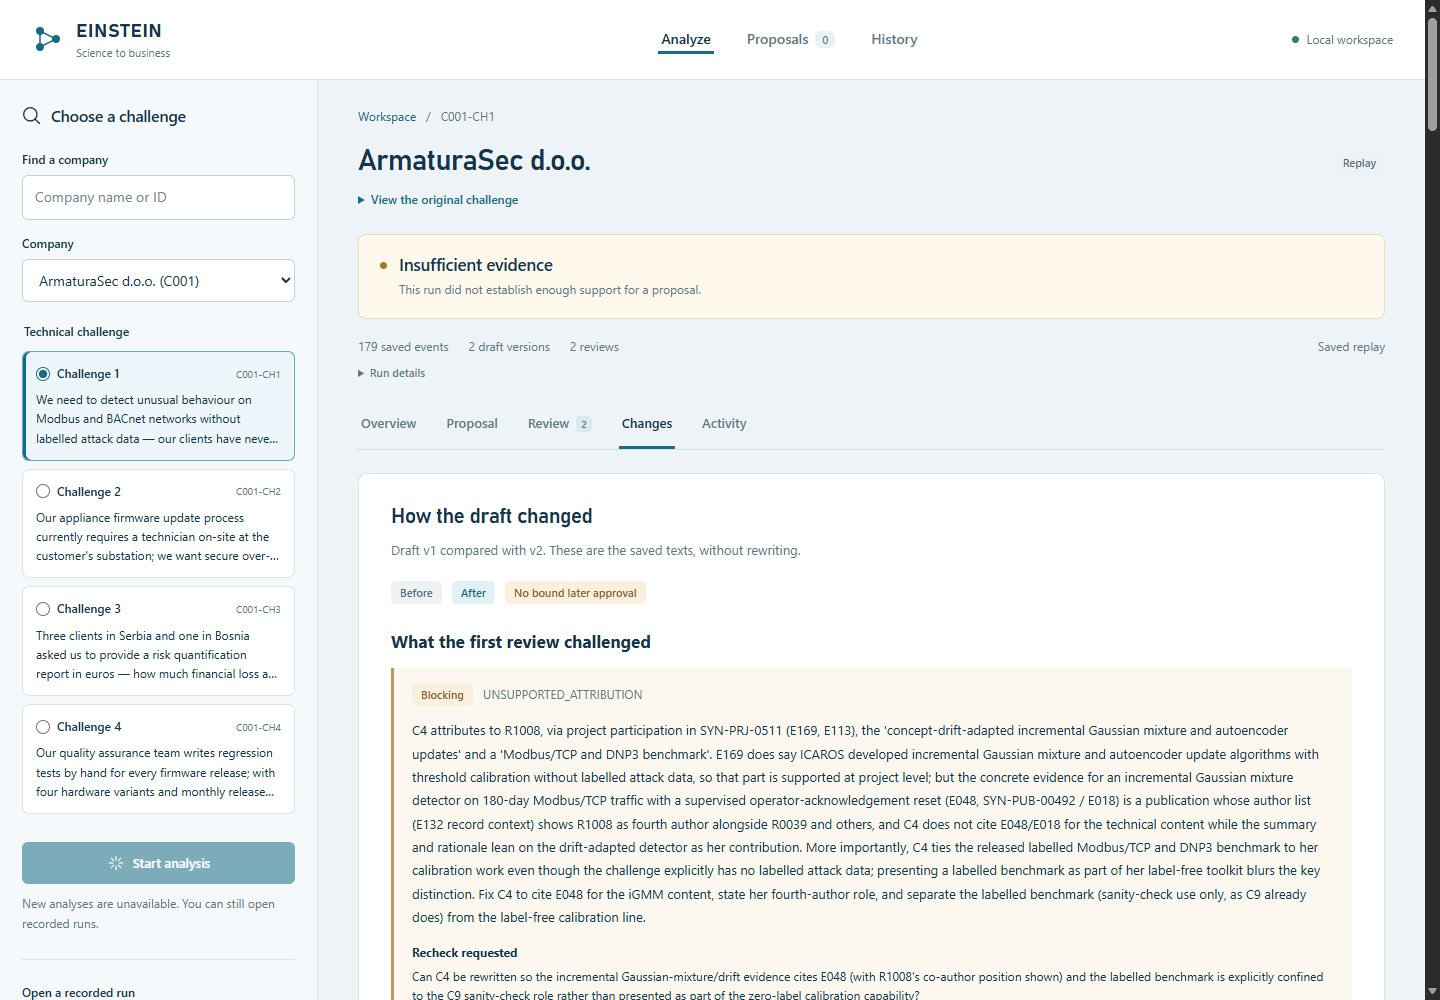
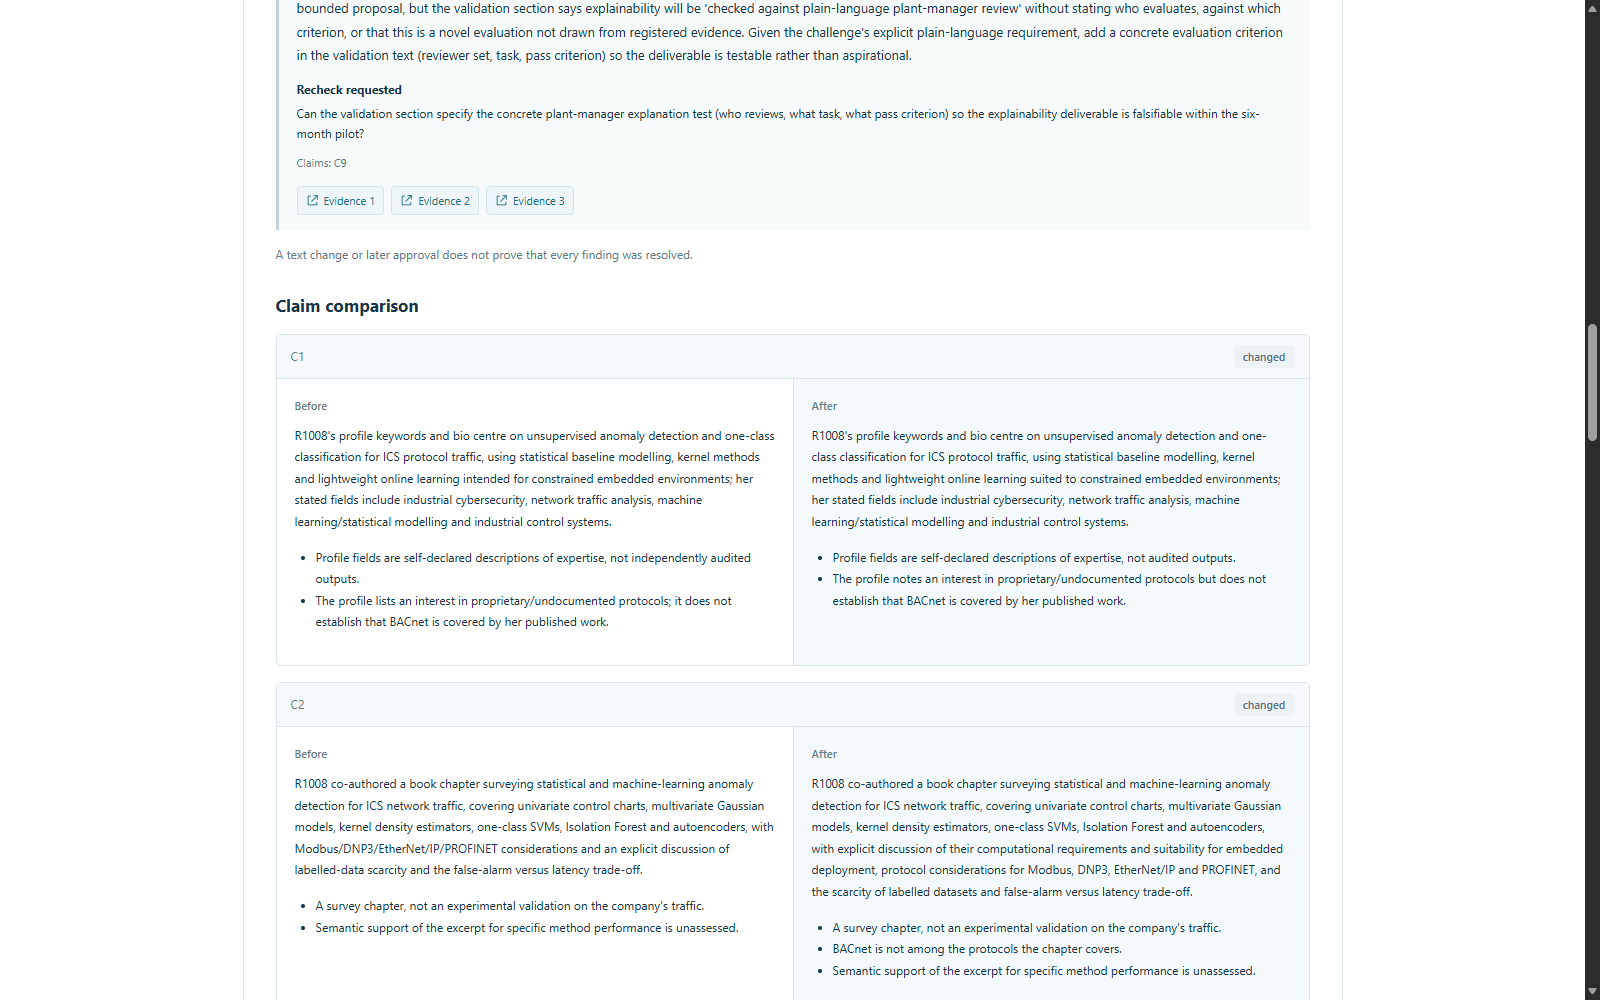
docs: refresh ProofBridge screenshots and explicit local API setup

diff --git a/README.md b/README.md
@@ -4,7 +4,18 @@ Turn a company challenge into a research partnership you can inspect: the source
 
 **[Open the interactive demo](https://luzxxxx.github.io/einstein-evidence-partnerships/)** · [Demo guide](https://luzxxxx.github.io/einstein-evidence-partnerships/guide.html) · [Architecture](docs/architecture.md) · [Three proposals](artifacts/showcase/final/index.html) · [Demo walkthrough](docs/demo-walkthrough.md)
 
-![Three reviewed partnerships](docs/images/proposals.png)
+![ProofBridge — find research partnerships and inspect the evidence](docs/images/home.png)
+
+<details>
+<summary>See the proposal, Critic revision and evidence inspector</summary>
+
+![A real approved partnership proposal](docs/images/proposal-overview.png)
+
+![Before and after a Critic-requested revision; this research Run ends with insufficient evidence](docs/images/critic-revision.png)
+
+![Original-source evidence inspector](docs/images/evidence-inspector.png)
+
+</details>
 
 The public demo replays real saved model runs. It needs no API key. New analysis runs locally with your own provider key; browser-based key entry is not yet implemented.
 
@@ -39,6 +50,16 @@ For a new analysis, stop the demo, copy `config/gateway.env.example` to `.env.lo
 ```powershell
 node --env-file-if-exists=.env.local dist/server/server/main.js
 ```
+
+The API configuration entry is the local server's `.env.local` file. Its format is:
+
+```dotenv
+EINSTEIN_GATEWAY_API_KEY=YOUR_OWN_API_KEY
+EINSTEIN_GATEWAY_BASE_URL=https://api.deepseek.com
+EINSTEIN_GATEWAY_MODEL=deepseek-flash
+```
+
+Use the model identifier enabled for your provider account. The example matches the saved live-run configuration; another identifier or provider needs compatibility verification. The GitHub Pages demo only reads saved results; it does not offer a browser API-key form or start new model requests.
 
 Keys remain local to the server. Never put a key in frontend source or commit `.env.local`. The tested live provider was DeepSeek with the OpenAI-compatible chat protocol. Other providers require compatibility verification. Model calls consume the configured account's quota.
 
@@ -81,6 +102,8 @@ The three formal saved runs contain real client-side request overlap of approxim
 A future network adapter would accept a consented company challenge and return the structured pair, proposed pilot, evidence references and review state. Human acceptance, pilot completion and verified collaboration outcomes could become network events. Stars could reward verified contributions or completed collaboration milestones under the network's rules. This prototype does **not** implement a network API or assign a person's worth, reputation or Stars score. Retrieval orders evidence-supported candidates for a challenge; it is not a ranking of human value.
 
 ## Verification and limits
+
+[Latest GitHub Pages and screenshot verification](docs/github-pages-verification.md) covers this public visual refresh.
 
 `pnpm test:offline` builds and runs the engineering suite without model requests. Windows process fixtures are explicitly labelled. The development suite recorded 1,322 passing tests; this public release adds portable historical fixtures and is verified separately in [release verification](docs/release-verification.md). High default test parallelism previously produced a native Node crash of unknown cause; bounded test-file concurrency is available in the verification instructions.
 

diff --git a/docs/github-pages-verification.md b/docs/github-pages-verification.md
@@ -1,0 +1,13 @@
+# GitHub Pages verification — 1 November 2026
+
+The public saved-results demo is https://luzxxxx.github.io/einstein-evidence-partnerships/ and its walkthrough is [guide.html](https://luzxxxx.github.io/einstein-evidence-partnerships/guide.html). It replays nine genuine archived Runs and three formal approved research pairs. It needs no API key and does not start a model request.
+
+The new UI passed 29 focused Web regressions, Web TypeScript checking and production build. A complete anonymous public-HTTP check matched 545 captured route payloads and 28 exported files by byte length and SHA-256. The three formal proposals and source evidence were preserved exactly. The first public HTTP pass encountered one HTTP 503 on a trace; that failure was retained, a targeted read returned the original bytes, and a separate complete pass succeeded. This does not guarantee future host availability.
+
+An independent read-only code review found no blocking issue. A separate isolated browser rendered the static build, loaded its bundled font, opened the actual approved FreshPak replay, the natural insufficient research revision, and the source inspector. Four new 1600×1000 PNG screenshots were captured from those real pages. The browser's observed HTTP requests were GET-only to the static preview; no application Store or model API was used. The automated connected-browser surface remained unavailable; it is not reported as passing.
+
+The earlier full curated-release verification remains in [release-verification.md](release-verification.md). The latest changes are limited to static deployment paths, saved-mode presentation/search and documentation; they do not change Agent behavior, retrieval, approvals, Hash contracts or process cleanup rules. No new inference/model call was made for this refresh.
+
+The local API configuration format and keyless replay startup are in the root README and [gateway.env.example](../config/gateway.env.example). Model keys belong to the local server only. The public GitHub Pages site has no API-key form or inference backend.
+
+Human relevance labels remain 0, quality metrics remain NA and holdout queries stay sealed. The natural insufficient result and adversarial diagnostic remain distinguished from the three formal proposals. The C105 reviewed text describes roughly 13 weeks while its three four-week phases total 12; that ambiguity is retained in the approved original, rather than silently rewritten after approval.
